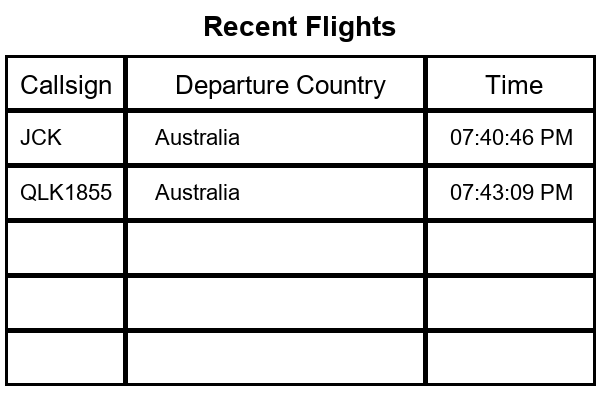
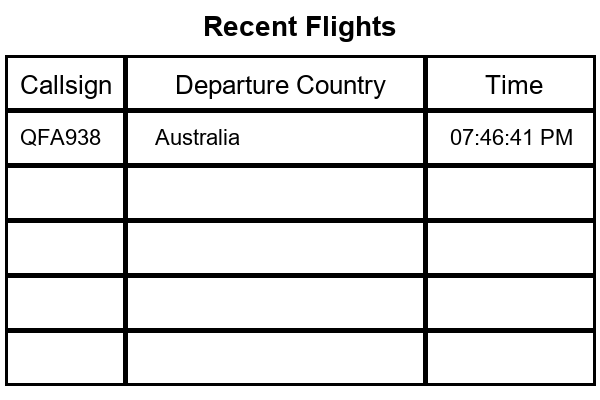
fixed null iteration over states

diff --git a/src/main.py b/src/main.py
@@ -8,7 +8,7 @@ import time
 
 def main():
     # bounding box properties (fixed coordinates)
-    lamin = -27.580000  # lower latitude
+    lamin = -27.530000  # lower latitude
     lamax = -27.420000 # higher latitude
     lomin = 153.000000  # lower longitude
     lomax = 153.170000  # higher longitude
@@ -50,18 +50,28 @@ def main():
         #call API
         data = get_states(params=params, username=username, password=password)
 
+        
+
         #if response parse wanted data to Flights list
         if data:
             print("Successful Get")
             print("API Response (JSON):")
             print(data)
+            states = data.get('states')
             #callsigns = [state[1].strip() for state in data['states'] if state[1].strip() != "NoCallsign"]
-            flights = [
-                [state[1].strip(), state[6], state[5], 0, 0, state[2].strip(), state[3]]
-                for state in data['states']
-                if state[1].strip() != "NoCallsign" and state[6] != "NoLat" and state[5] != "NoLon"
-            ]
-            print(flights)
+            #check if data has returned some states, if not show default image
+            if states and isinstance(states, list) and len(states) > 0:
+                flights = [
+                    [state[1].strip(), state[6], state[5], 0, 0, state[2].strip(), state[3]]
+                    for state in states
+                    if state[1].strip() != "NoCallsign" 
+                    and state[6] != "NoLat" 
+                    and state[5] != "NoLon"
+                ]
+                print(flights)
+            else:
+                #if states is empty set default display
+                displayCount = setImage(flights, displayCount)
         
         for plane in flights:
             #convert lon/lat to pixelcoords

diff --git a/src/Display/activeImg.py b/src/Display/activeImg.py
@@ -7,7 +7,6 @@ def setImage(flights, displayCount):
     
     if len(flights) > 0 and displayCount < 10:
         generateMap(flights)
-        generateHistory(flights)
         displayCount = displayCount + 1
     else:
         generateHistory(flights)
